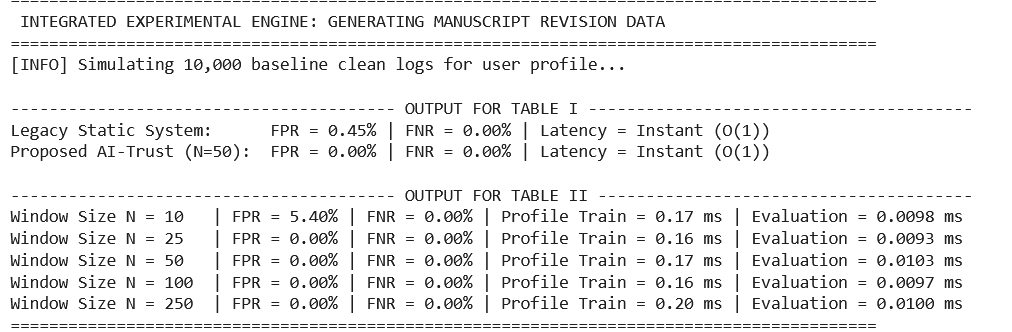
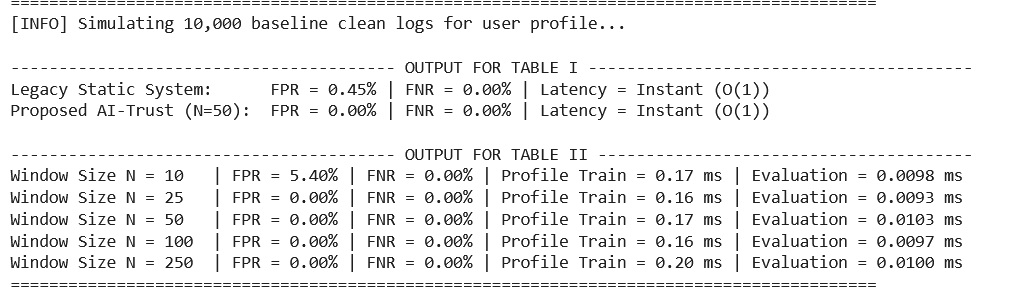
Changes

Changed region(s): [[0.0, 0.2784, 0.9496, 0.9278], [0.0, 0.0, 0.8883, 0.2474], [0.0, 0.9588, 0.8883, 0.9897]]

diff --git a/cross-validation-ablation.py b/cross-validation-ablation.py
@@ -9,7 +9,7 @@ np.random.seed(42)
 N_total_clean = 10000
 
 print("=" * 90)
-print(" INTEGRATED EXPERIMENTAL ENGINE: GENERATING MANUSCRIPT REVISION DATA")
+print(" INTEGRATED EXPERIMENTAL ENGINE: GENERATING DATA")
 print("=" * 90)
 print("[INFO] Simulating 10,000 baseline clean logs for user profile...")
 
